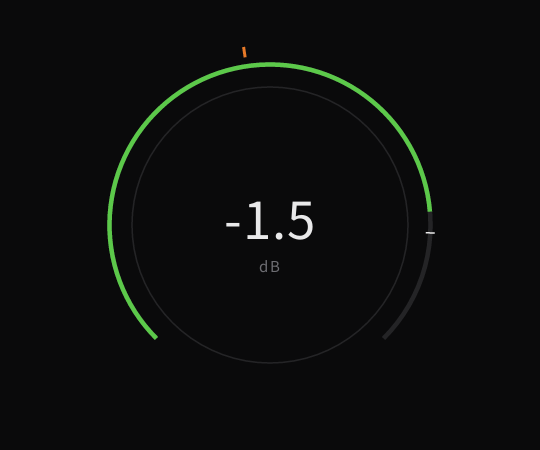
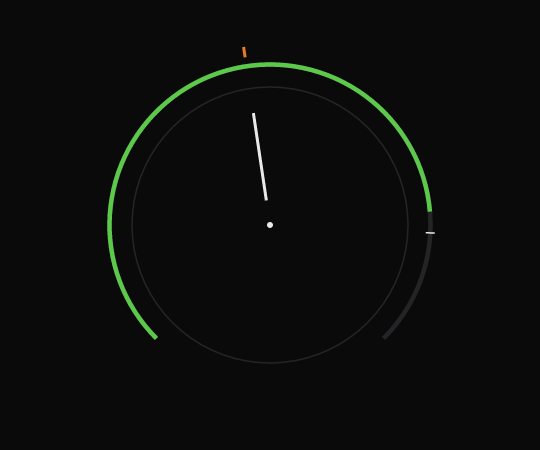
中间改回指针，不用 dB 数字

Changed region(s): [[0.4148, 0.28, 0.5926, 0.5289], [0.4741, 0.56, 0.5333, 0.6222], [0.4444, 0.2489, 0.4741, 0.28]]

diff --git a/src/gui.rs b/src/gui.rs
@@ -839,30 +839,16 @@ fn paint(p: &mut Painter, v: &View, l: &mut Layout) {
     let t = ((v.gain_db + KNOB_RANGE) / (KNOB_RANGE * 2.0)).clamp(0.0, 1.0);
     let ang = A0 + (A1 - A0) * t;
 
-    // 中间：dB 读数
-    let val = if v.gain_db.abs() < 0.05 {
-        "0.0".to_string()
-    } else {
-        format!("{:+.1}", v.gain_db)
-    };
-    let vw = p.text_w_of(&val, 34.0, 0.6);
-    p.text(
-        cx - vw / 2.0,
-        cy + 9.0,
-        34.0,
-        0.6,
-        &val,
-        if v.active { ink() } else { muted() },
+    // 指针（老样子）
+    p.line(
+        cx + ang.sin() * kr * 0.18,
+        cy - ang.cos() * kr * 0.18,
+        cx + ang.sin() * kr * 0.82,
+        cy - ang.cos() * kr * 0.82,
+        ink(),
+        2.0,
     );
-    let uw = p.text_w_of("dB", 10.0, 1.2);
-    p.text(
-        cx - uw / 2.0,
-        cy + 31.0,
-        10.0,
-        1.2,
-        "dB",
-        if v.active { muted() } else { line_hi() },
-    );
+    p.circle(cx, cy, 2.0, ink());
 
     // 增益位置：电平圈外侧的一小段刻度
     p.line(
